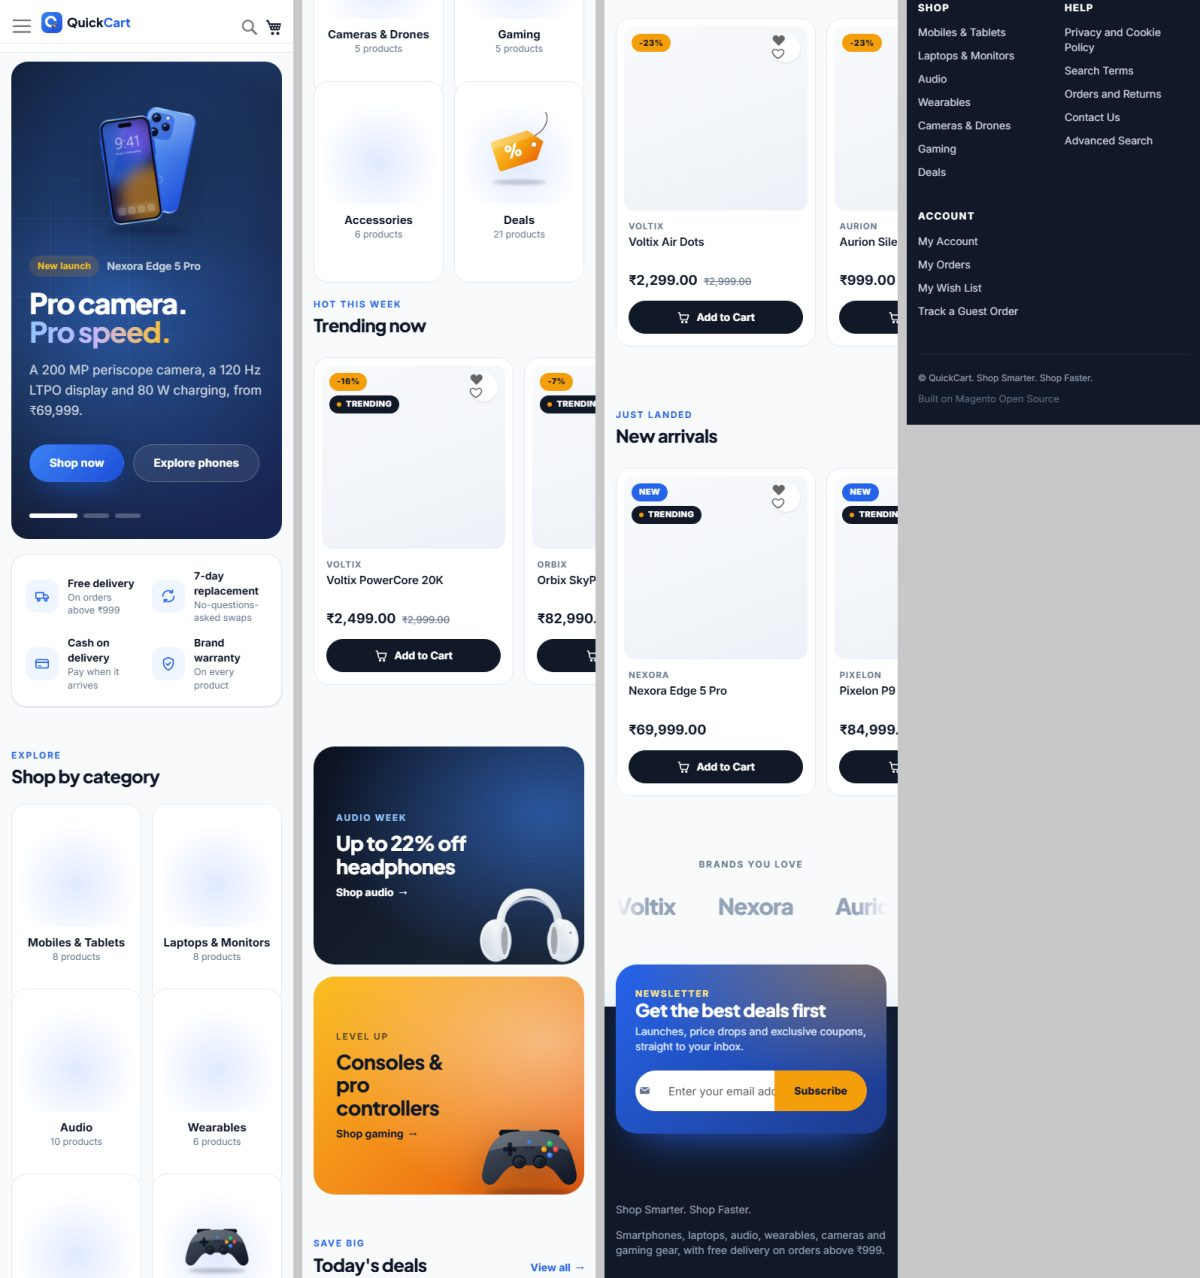
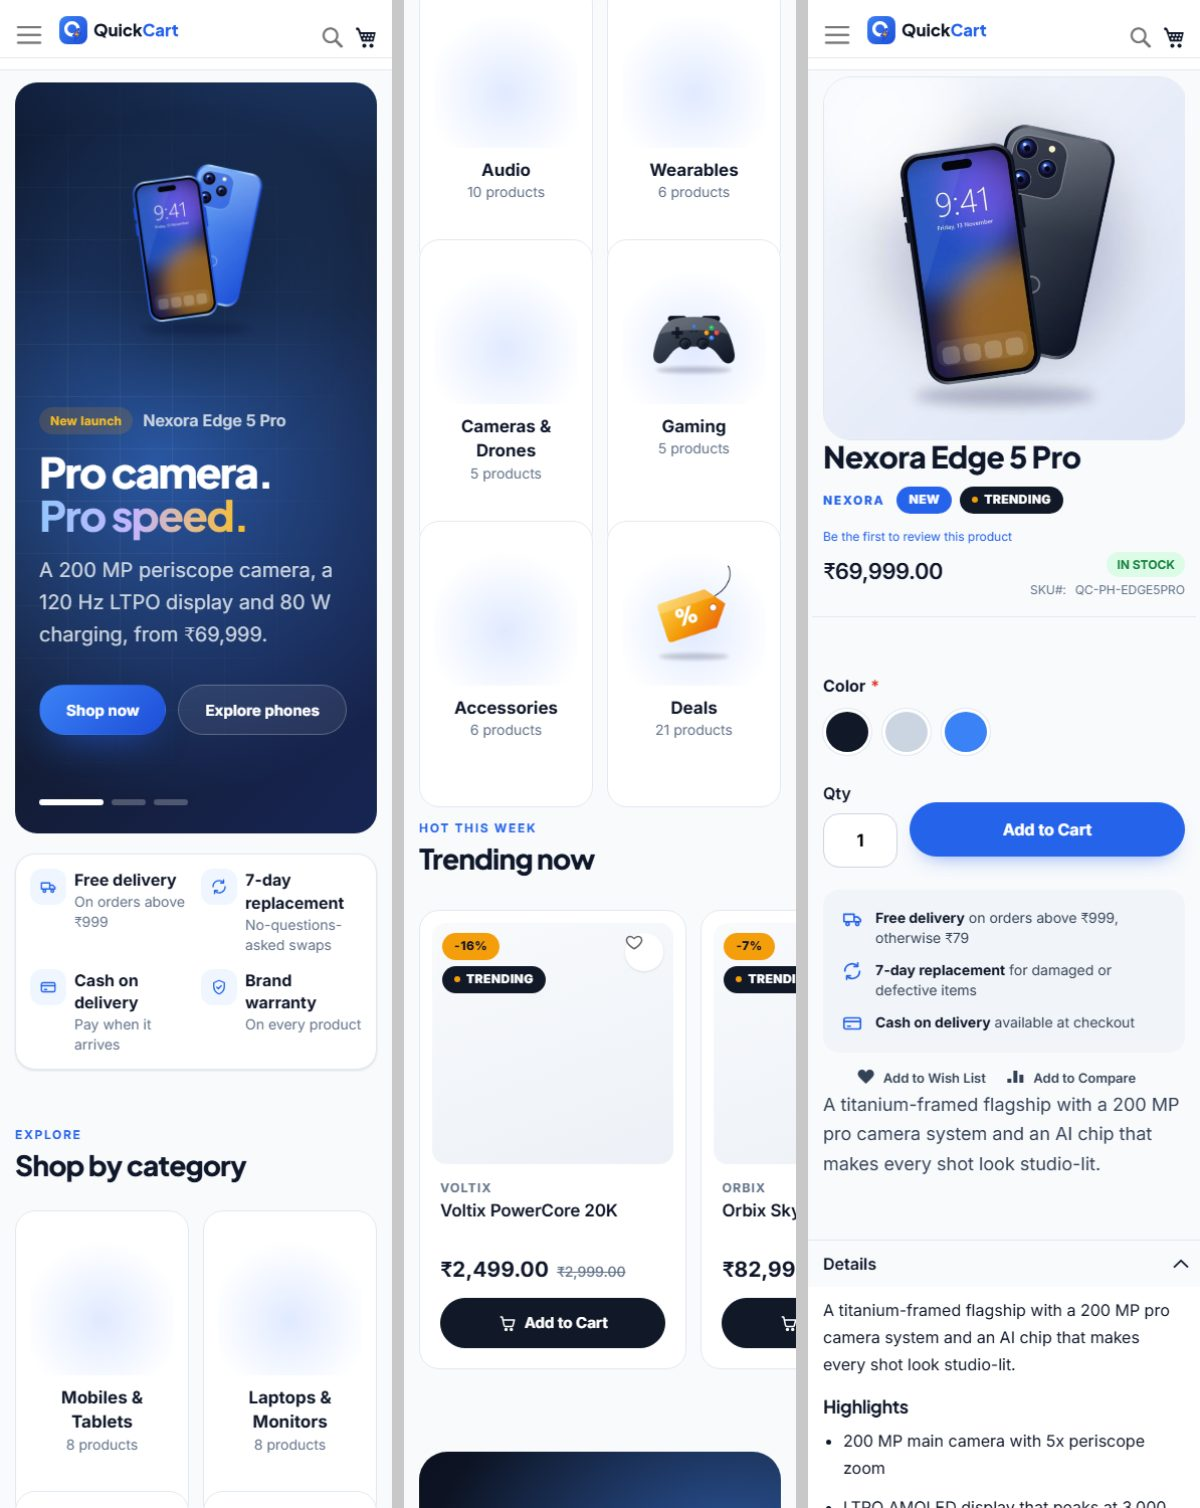
Docs: README for phases 1-3 and refreshed storefront screenshots
- Feature overview: QuickCart theme, Motion animations, demo catalogue
- Module descriptions for CatalogEnhancement, DemoData, WindowsCompat
- qc clean-static workflow and design-asset regeneration
- 1920px desktop + 390px mobile screenshots

diff --git a/README.md b/README.md
@@ -4,19 +4,61 @@
 
 QuickCart is a multi-category electronics store built on **Magento Open Source 2.4.9**.
 It is a portfolio project that shows real-world Magento development: custom modules
-built on service contracts, a custom Luma-based theme, declarative schema, REST APIs,
-admin tooling and performance tuning. It changes no Magento core files.
+built on service contracts, a custom Luma-based theme with Motion animations,
+declarative schema, data patches, REST APIs, admin tooling and performance tuning.
+It changes no Magento core files.
+
+![QuickCart homepage](docs/screenshots/home-desktop.jpg)
 
 | Status | Phase |
 | :----: | ----- |
-| ✅ | **Phase 1** — Magento installation & native Windows dev stack |
-| ⏳ | Phase 2 — QuickCart branding & responsive theme |
-| ⏳ | Phase 3 — Homepage & catalog customization |
-| ⏳ | Phase 4 — Product & checkout enhancements |
-| ⏳ | Phase 5 — Custom modules (catalog, recommendations, order tracking, checkout) |
-| ⏳ | Phase 6 — REST API (`QuickCart_CustomApi`) |
-| ⏳ | Phase 7 — Admin sales dashboard, grids, ACL |
-| ⏳ | Phase 8 — Testing, optimization & final documentation |
+| ✅ | **Phase 1:** Magento installation & native Windows dev stack |
+| ✅ | **Phase 2:** QuickCart branding, logo & responsive theme with Motion animations |
+| ✅ | **Phase 3:** Homepage, catalog attributes, layered navigation, 48 demo products |
+| ⏳ | Phase 4: Product & checkout enhancements (reviews, cross-sells, checkout UI) |
+| ⏳ | Phase 5: Custom modules (labels admin, recommendations, order tracking, checkout) |
+| ⏳ | Phase 6: REST API (`QuickCart_CustomApi`) |
+| ⏳ | Phase 7: Admin sales dashboard, grids, ACL |
+| ⏳ | Phase 8: Testing, optimization & final documentation |
+
+---
+
+## Features built so far
+
+**Storefront (theme `QuickCart/default`, Luma child)**
+- Brand identity: SVG logo (wordmark converted to outlines), favicon, brand palette
+  (#2563EB, #111827, #F59E0B, #F8FAFC), self-hosted Inter and Plus Jakarta Sans fonts.
+- Glass sticky header (the promo bar scrolls away, so there's no layout shift), pill search,
+  account and wish list shortcuts, and an animated underline mega menu.
+- Homepage built from editable CMS blocks and widgets: hero slider, trust bar, category
+  tiles, product rails (trending, deals, new arrivals, best sellers), promo banners and
+  a brand marquee.
+- Product cards with real-data badges (sale %, New, Trending), brand line, swatches,
+  wish list and compare.
+- Category banner, layered navigation (brand, color swatch, RAM, storage, connectivity,
+  price), and a product page with brand, badges, swatches and delivery and returns
+  assurances.
+- Responsive from 360 px to 1920 px+.
+
+**Motion design** ([Motion](https://motion.dev), the framework-agnostic engine behind
+Framer Motion, loaded through RequireJS):
+- Hero slides choreographed (copy staggers out and in, product art springs in), with
+  autoplay and a progress bar, swipe and keyboard control, and pointer parallax.
+- Scroll reveals and staggered grids, 3D tilt with light glare, button press feedback, a
+  fly-to-cart image arc, a cart badge bump and a reading progress bar on product pages.
+- `prefers-reduced-motion` is respected. Content is server-rendered and visible without JS.
+
+**Catalog (data patches, no manual setup)**
+- 8 categories and 15 subcategories, 48 products (4 configurable products with 12 color
+  variants), 21 deals, 17 trending, 12 new arrivals.
+- Fictional brands (Voltix, Nexora, Aurion, Pixelon, Sonavo, Zentra, Orbix, Kairo) and
+  original product illustrations, so there are no trademark or stock-photo concerns.
+- Store settings that match the storefront copy: free delivery above ₹999, ₹79 flat
+  rate, and cash on delivery.
+
+| Category page | Product page | Mobile |
+| --- | --- | --- |
+| ![Category](docs/screenshots/category-desktop.jpg) | ![Product](docs/screenshots/product-desktop.jpg) | ![Mobile](docs/screenshots/mobile.jpg) |
 
 ---
 
@@ -28,9 +70,10 @@ admin tooling and performance tuning. It changes no Magento core files.
 | PHP | 8.4 (NTS x64) | 2.4.9 supports 8.3 – 8.5 |
 | Composer | 2.11 | |
 | MySQL | 8.4 LTS | |
-| OpenSearch | 3.9 | Catalog search engine required by 2.4.9 |
+| OpenSearch | 3.9 | Catalog search and layered navigation |
 | Nginx | 1.30 | Uses Magento's own `nginx.conf.sample` rules |
 | Frontend | LESS, Knockout.js, RequireJS, jQuery UI widgets | Magento Luma stack |
+| Animation | Motion 14.7 (MIT) | Vendored in `web/js/vendor/motion.js` |
 
 **Cache/session store:** local development uses Magento's file cache and its built-in
 full-page cache, because Redis/Valkey publish no native Windows builds. On Linux,
@@ -51,9 +94,10 @@ this).
 ├── src/                        Magento project root (only project-owned files are committed)
 │   ├── composer.json / .lock
 │   ├── app/code/QuickCart/     Custom modules
-│   ├── app/design/frontend/    QuickCart theme (Phase 2)
+│   ├── app/design/frontend/QuickCart/default/   Theme
 │   └── app/etc/config.php      Module list / shared deployment config
-└── docs/                       Phase notes, API docs, screenshots
+├── tools/design-assets/        Node build: product illustrations, logo, fixtures, vendored Motion + fonts
+└── docs/                       Screenshots and phase notes
 ```
 
 `src/vendor`, `generated`, `var`, `pub/static`, `pub/media`, `app/etc/env.php` and every
@@ -77,15 +121,19 @@ stack doesn't touch other PHP/MySQL installs on the machine, such as XAMPP.
 
 ## Custom modules
 
-| Module | Phase | Purpose |
-| ------ | ----- | ------- |
-| `QuickCart_WindowsCompat` | 1 ✅ | Native-Windows adapters with no core edits: separator-safe template validation (DI preference), GD2 image adapter that accepts drive-letter paths (DI preference), Copy instead of Symlink static-asset materialization (plugin). No-op on Linux. Unit-tested. |
-| `QuickCart_CatalogEnhancement` | 5 | Custom product attributes, product labels, featured products |
-| `QuickCart_ProductRecommendation` | 5 | Frequently bought together, recently viewed, related recommendations |
-| `QuickCart_OrderTracking` | 5 | Shipment tracking, custom status display, customer tracking page |
-| `QuickCart_CheckoutEnhancement` | 4/5 | Checkout UI improvements, custom fields, extra validation |
-| `QuickCart_SalesDashboard` | 7 | Sales analytics, revenue and best-seller reports |
-| `QuickCart_CustomApi` | 6 | REST endpoints for products, categories, orders, customers |
+| Module | Purpose |
+| ------ | ------- |
+| `QuickCart_CatalogEnhancement` | EAV attributes `qc_brand`, `qc_color` (visual swatch), `qc_ram`, `qc_storage`, `qc_display`, `qc_battery`, `qc_connectivity`, `qc_warranty` and `qc_is_trending`; the *QuickCart Electronics* attribute set; the **QuickCart Product Carousel** CMS widget, whose merchandising sources (trending, new, deals, best sellers) are a strategy pool in `di.xml`; the **QuickCart Category Tiles** widget; and the `ProductBadges` view model. Both widgets are block- and FPC-cache aware. |
+| `QuickCart_DemoData` | Data patches that install attribute options and swatch colors, the category tree with images, 48 products (simple and configurable, through `ProductRepositoryInterface`), homepage CMS blocks and page, shipping and payment settings, and the theme assignment. Content lives in `fixtures/`, generated by `tools/design-assets`. |
+| `QuickCart_WindowsCompat` | Native-Windows adapters with no core edits, each a no-op on Linux: template path validation, the GD2 adapter with drive paths, static-file theme lookup (`pub/static.php`), product image URLs, gallery file names, Copy instead of Symlink materialization, and a data patch that repairs stored paths. Unit-tested. |
+| `QuickCart_ProductRecommendation` | Phase 5: frequently bought together, recently viewed, related recommendations |
+| `QuickCart_OrderTracking` | Phase 5: shipment tracking, custom status display, customer tracking page |
+| `QuickCart_CheckoutEnhancement` | Phase 4/5: checkout UI improvements, custom fields, extra validation |
+| `QuickCart_SalesDashboard` | Phase 7: sales analytics, revenue and best-seller reports |
+| `QuickCart_CustomApi` | Phase 6: REST endpoints for products, categories, orders, customers |
+
+The **Best sellers** rail reads Magento's sales report aggregation, so it stays hidden
+until there are orders. Run *Reports › Refresh Statistics* after placing orders.
 
 ---
 
@@ -101,7 +149,8 @@ cd quickcart
 :: 1. Download + configure PHP, Composer, MySQL, OpenSearch, Nginx into STACK_DIR
 devstack\qc install-stack
 
-:: 2. composer install + bin/magento setup:install + developer configuration
+:: 2. composer install, then bin/magento setup:install (runs every data patch: catalog,
+::    CMS, theme), reindex, and pre-generates all product image sizes
 devstack\qc install-magento
 ```
 
@@ -123,10 +172,23 @@ devstack\qc start                  :: MySQL, OpenSearch, PHP-CGI workers, Nginx
 devstack\qc status                 :: service health + storefront/admin HTTP codes
 devstack\qc stop
 
+devstack\qc clean-static           :: after editing the theme (LESS/JS/templates)
 devstack\qc magento cache:flush    :: any bin/magento command
 devstack\qc magento setup:upgrade
 devstack\qc composer show magento/framework
 devstack\qc mysql                  :: MySQL client on the quickcart database
+```
+
+### Regenerating design assets
+
+The illustrations, logo, catalog fixtures and vendored Motion/fonts are committed, so
+installs need no Node. To change them, edit `tools/design-assets/catalog.mjs` or
+`lib/devices.mjs` and run:
+
+```bat
+cd tools\design-assets
+npm install
+npm run build
 ```
 
 ### Database setup
@@ -161,12 +223,10 @@ production environment:
 * Email sending is off (`system/smtp/disable = 1`), because there is no local mail server.
 * OpenSearch runs on loopback with its security plugin disabled.
 * Deploy mode is `developer`.
+* `system/media_storage_configuration/configuration_update_time = 0`: on Windows,
+  `pub/get.php`'s cached fast path mis-compares paths, so the full media app is always used.
 
 ---
-
-## Screenshots
-
-Screenshots will be added with the QuickCart theme in Phase 2.
 
 ## API documentation
 
@@ -175,3 +235,5 @@ REST endpoints and a Postman collection will be documented here in Phase 6.
 ## License
 
 Proprietary. Portfolio project. Magento Open Source is licensed under OSL-3.0 / AFL-3.0.
+Motion is MIT licensed; Inter and Plus Jakarta Sans are SIL OFL 1.1 (license files ship
+next to the vendored assets).
